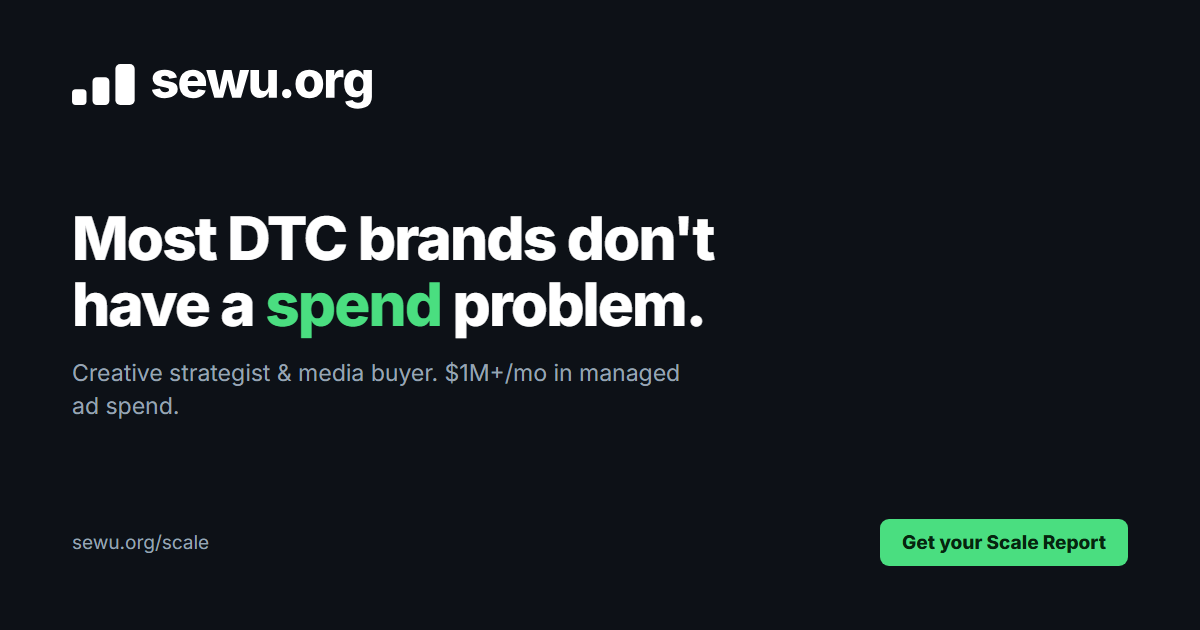
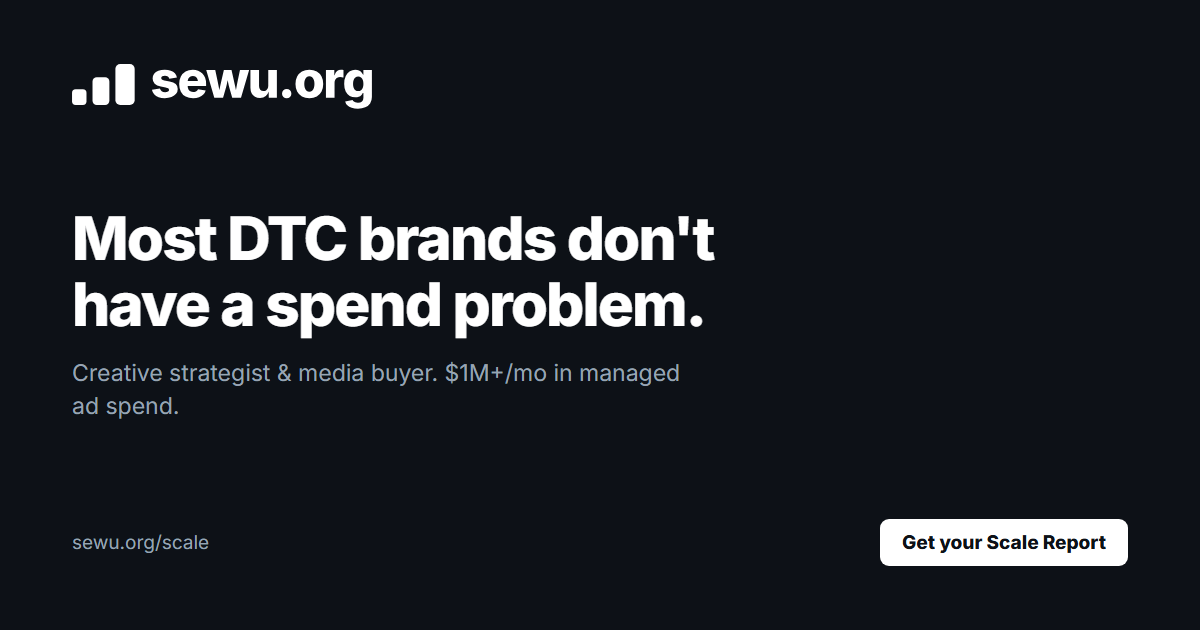
Brand: black and white
Accent is now ink, not green. Favicon becomes the dark tile with a white
mark at 0.85 - the previous mark sat at 0.72 and nearly vanished at 16px,
which was the actual defect.

The nav cta could not simply follow --accent: the nav is near-black in both
themes, so a black accent would have painted a black button on a black bar.
It now has its own --nav-cta/--nav-cta-ink pair and inverts to white.

Known cost, accepted: the cta no longer wins by colour. On a white page a
black button carries the same ink as the headline it competes with.

og.png and apple-touch-icon rebuilt monochrome. Green merch files are left
in place untouched pending a decision on them.

Changed region(s): [[0.7092, 0.8143, 0.9558, 0.9048], [0.2158, 0.4524, 0.37, 0.5429]]

diff --git a/style.css b/style.css
@@ -5,11 +5,12 @@
   /* type */
   --ink:#f2f5f8; --mute:#98a4b3; --mute-2:#93a0b4; --faint:#6f7c90; --chev:#7c8aa0;
   /* brand green */
-  --accent:#4ade80;          /* fills only  */
-  --accent-ink:#06240f;      /* text on a fill */
-  --accent-text:#4ade80;     /* green as text / border / icon */
-  --accent-wash:rgba(74,222,128,.07);
-  --accent-wash-2:rgba(74,222,128,.05);
+  --accent:#f2f5f8;          /* fills - on a dark ground the fill is light */
+  --accent-ink:#0b0d10;      /* text on a fill */
+  --accent-text:#f2f5f8;     /* text / border / icon */
+  --accent-wash:rgba(242,245,248,.07);
+  --accent-wash-2:rgba(242,245,248,.05);
+  --nav-cta:#ffffff; --nav-cta-ink:#0d1117;
   /* nav */
   --nav-bg:rgba(11,13,16,.82); --nav-ink:#f2f5f8; --nav-line:#232936;
   /* states */
@@ -21,11 +22,13 @@ html[data-theme="light"]{
   --bg:#ffffff; --panel:#f4f6f8; --panel-2:#ffffff; --raise:#ffffff; --raise-2:#f0f3f6;
   --line:#e2e8f0; --line-2:#e2e8f0; --line-3:#cbd5e1;
   --ink:#0d1117; --mute:#4d5866; --mute-2:#5b6673; --faint:#71808f; --chev:#94a3b8;
-  --accent:#4ade80;
-  --accent-ink:#06240f;
-  --accent-text:#15803d;     /* 5.02:1 on white - the bright green fails at 1.74:1 */
-  --accent-wash:rgba(21,128,61,.06);
-  --accent-wash-2:rgba(21,128,61,.04);
+  --accent:#0d1117;          /* black fill, white label */
+  --accent-ink:#ffffff;
+  --accent-text:#0d1117;     /* 19.46:1 on white */
+  --accent-wash:rgba(13,17,23,.05);
+  --accent-wash-2:rgba(13,17,23,.03);
+  /* the nav is dark in both themes, so its cta must invert or it vanishes */
+  --nav-cta:#ffffff; --nav-cta-ink:#0d1117;
   --nav-bg:rgba(13,17,23,.94); --nav-ink:#ffffff; --nav-line:#0d1117;
   --warn:#b45309; --warn-ink:#7c3d06; --warn-wash:rgba(180,83,9,.08); --err:#b91c1c;
   --shadow:0 10px 30px rgba(13,17,23,.08);
@@ -107,7 +110,7 @@ footer p{max-width:none}
 .nav ul{list-style:none;display:flex;align-items:center;gap:26px;margin:0;padding:0}
 .nav a.lnk{color:var(--mute);text-decoration:none;font-size:15px;font-weight:600}
 .nav a.lnk:hover,.nav a.lnk[aria-current]{color:var(--nav-ink)}
-.nav a.cta{background:var(--accent);color:var(--accent-ink);text-decoration:none;font-weight:800;
+.nav a.cta{background:var(--nav-cta);color:var(--nav-cta-ink);text-decoration:none;font-weight:800;
   font-size:14.5px;padding:10px 18px;border-radius:8px}
 .nav a.cta:hover{filter:brightness(1.08)}
 @media(max-width:720px){

diff --git a/scale/index.html b/scale/index.html
@@ -12,21 +12,21 @@
     <meta property="og:title" content="Get your Scale Report — sewu.org">
     <meta property="og:description" content="Find the one thing blocking this ad account: creative, media buying, or funnel. Nine questions, under 60 seconds.">
     <meta property="og:url" content="https://sewu.org/scale/">
-    <meta property="og:image" content="https://sewu.org/assets/og.png?v=55e96acf">
+    <meta property="og:image" content="https://sewu.org/assets/og.png?v=91318fbf">
     <meta property="og:image:width" content="1200">
     <meta property="og:image:height" content="630">
     <meta name="twitter:card" content="summary_large_image">
     <meta name="twitter:title" content="Get your Scale Report — sewu.org">
     <meta name="twitter:description" content="Find the one thing blocking this ad account: creative, media buying, or funnel. Nine questions, under 60 seconds.">
-    <meta name="twitter:image" content="https://sewu.org/assets/og.png?v=55e96acf">
+    <meta name="twitter:image" content="https://sewu.org/assets/og.png?v=91318fbf">
 
-    <link rel="icon" type="image/svg+xml" href="../assets/favicon.svg?v=92cb4b63">
-    <link rel="apple-touch-icon" href="../assets/apple-touch-icon.png?v=6a3c197f">
-    <meta name="theme-color" content="#0b0d10">
+    <link rel="icon" type="image/svg+xml" href="../assets/favicon.svg?v=234a9319">
+    <link rel="apple-touch-icon" href="../assets/apple-touch-icon.png?v=afd05588">
+    <meta name="theme-color" content="#0d1117">
     <link rel="preconnect" href="https://fonts.googleapis.com">
     <link rel="preconnect" href="https://fonts.gstatic.com" crossorigin>
     <link href="https://fonts.googleapis.com/css2?family=Inter:wght@400;600;700;800&display=swap" rel="stylesheet">
-    <link rel="stylesheet" href="../style.css?v=2265e79c">
+    <link rel="stylesheet" href="../style.css?v=828ce166">
     <style>
         .doc { max-width: 680px; }
         .doc p { max-width: 62ch; }

diff --git a/index.html b/index.html
@@ -12,21 +12,21 @@
     <meta property="og:title" content="Arthur Sewu — Creative Strategist &amp; Media Buyer">
     <meta property="og:description" content="Most DTC brands don't have a spend problem. They have a “we can't tell what's actually working” problem.">
     <meta property="og:url" content="https://sewu.org/">
-    <meta property="og:image" content="https://sewu.org/assets/og.png?v=55e96acf">
+    <meta property="og:image" content="https://sewu.org/assets/og.png?v=91318fbf">
     <meta property="og:image:width" content="1200">
     <meta property="og:image:height" content="630">
     <meta name="twitter:card" content="summary_large_image">
     <meta name="twitter:title" content="Arthur Sewu — Creative Strategist &amp; Media Buyer">
     <meta name="twitter:description" content="Most DTC brands don't have a spend problem. They have a “we can't tell what's actually working” problem.">
-    <meta name="twitter:image" content="https://sewu.org/assets/og.png?v=55e96acf">
+    <meta name="twitter:image" content="https://sewu.org/assets/og.png?v=91318fbf">
 
-    <link rel="icon" type="image/svg+xml" href="assets/favicon.svg?v=92cb4b63">
-    <link rel="apple-touch-icon" href="assets/apple-touch-icon.png?v=6a3c197f">
-    <meta name="theme-color" content="#0b0d10">
+    <link rel="icon" type="image/svg+xml" href="assets/favicon.svg?v=234a9319">
+    <link rel="apple-touch-icon" href="assets/apple-touch-icon.png?v=afd05588">
+    <meta name="theme-color" content="#0d1117">
     <link rel="preconnect" href="https://fonts.googleapis.com">
     <link rel="preconnect" href="https://fonts.gstatic.com" crossorigin>
     <link href="https://fonts.googleapis.com/css2?family=Inter:wght@400;600;700;800&display=swap" rel="stylesheet">
-    <link rel="stylesheet" href="style.css?v=2265e79c">
+    <link rel="stylesheet" href="style.css?v=828ce166">
 </head>
 
 <body>

diff --git a/report/index.html b/report/index.html
@@ -12,21 +12,21 @@
     <meta property="og:title" content="Scale Report — the fixes">
     <meta property="og:description" content="What to do about it, and what not to.">
     <meta property="og:url" content="https://sewu.org/report/">
-    <meta property="og:image" content="https://sewu.org/assets/og.png?v=55e96acf">
+    <meta property="og:image" content="https://sewu.org/assets/og.png?v=91318fbf">
     <meta property="og:image:width" content="1200">
     <meta property="og:image:height" content="630">
     <meta name="twitter:card" content="summary_large_image">
     <meta name="twitter:title" content="Scale Report — the fixes">
     <meta name="twitter:description" content="What to do about it, and what not to.">
-    <meta name="twitter:image" content="https://sewu.org/assets/og.png?v=55e96acf">
+    <meta name="twitter:image" content="https://sewu.org/assets/og.png?v=91318fbf">
 
-    <link rel="icon" type="image/svg+xml" href="../assets/favicon.svg?v=92cb4b63">
-    <link rel="apple-touch-icon" href="../assets/apple-touch-icon.png?v=6a3c197f">
-    <meta name="theme-color" content="#0b0d10">
+    <link rel="icon" type="image/svg+xml" href="../assets/favicon.svg?v=234a9319">
+    <link rel="apple-touch-icon" href="../assets/apple-touch-icon.png?v=afd05588">
+    <meta name="theme-color" content="#0d1117">
     <link rel="preconnect" href="https://fonts.googleapis.com">
     <link rel="preconnect" href="https://fonts.gstatic.com" crossorigin>
     <link href="https://fonts.googleapis.com/css2?family=Inter:wght@400;600;700;800&display=swap" rel="stylesheet">
-    <link rel="stylesheet" href="../style.css?v=2265e79c">
+    <link rel="stylesheet" href="../style.css?v=828ce166">
     <style>
         .doc { max-width: 720px; }
         .doc p, .doc li { max-width: 68ch; }
